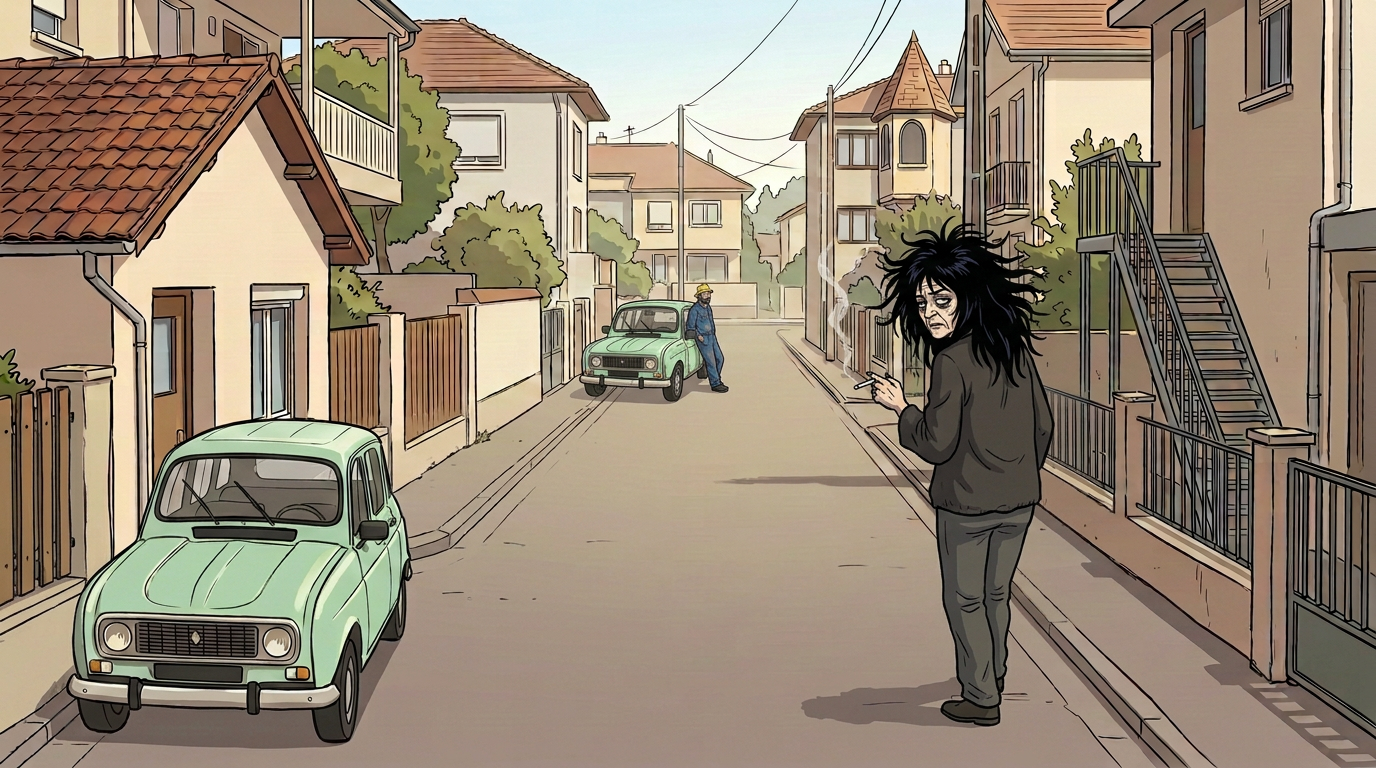
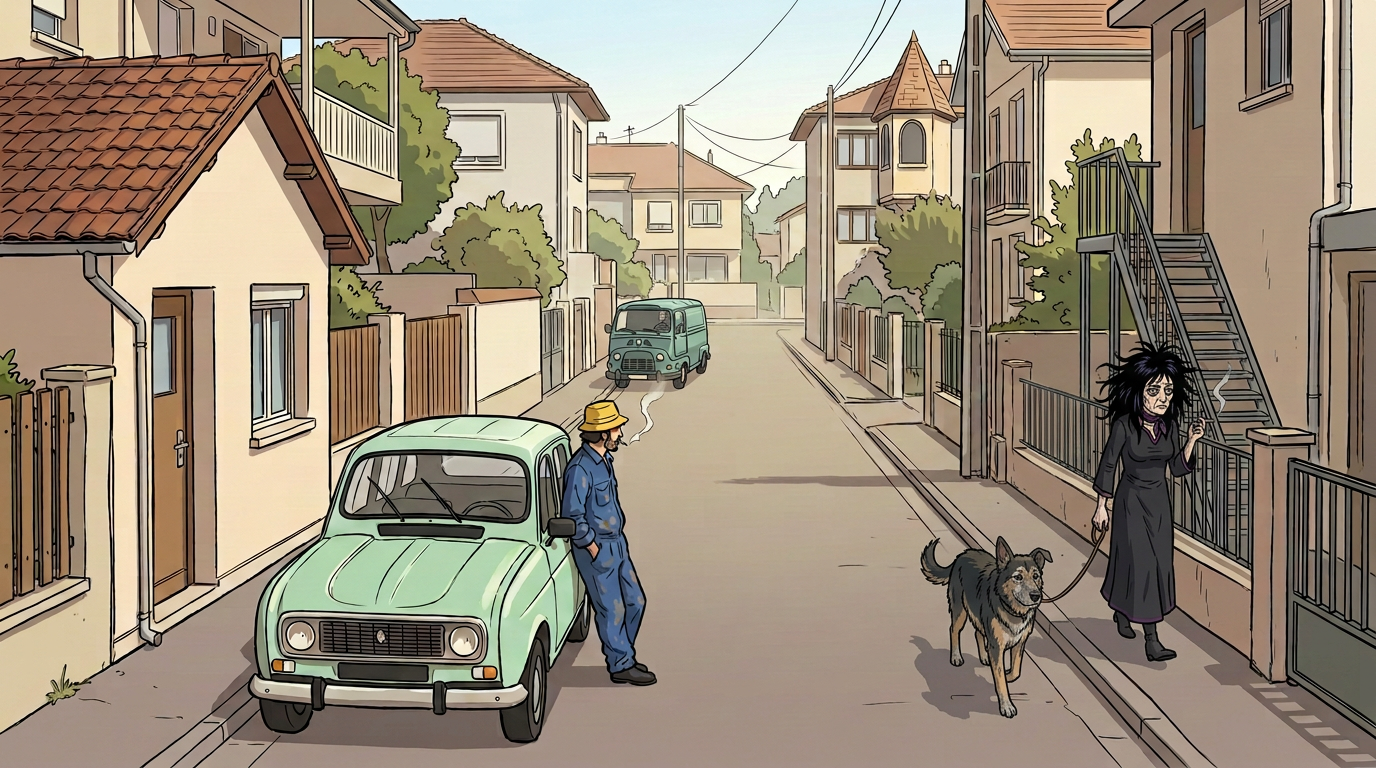
Correct P05 car continuity and leash Enji

Changed region(s): [[0.0, 0.375, 0.5312, 1.0], [0.5625, 0.2812, 0.9062, 0.9688]]

diff --git a/docs/storyboard-images.md b/docs/storyboard-images.md
@@ -1,6 +1,6 @@
 # Suivi des images du storyboard
 
-**Avancement : 29/29 images terminées et poussées.** Une image autonome 16:9 par plan ; cette étape produit les images-clés uniquement, sans annoter les mouvements de caméra ni monter l'animatique. Après les 29 images : annotations détaillées, mouvements de caméra, montage complet du storyboard, puis création et animation.
+**Images de base : 29/29 poussées. Audit de cohérence demandé : en cours ; P05 corrigé, autres plans à vérifier/réviser.** Les annotations détaillées et les mouvements de caméra finaux restent après cet audit, puis viendra le montage complet du storyboard.
 
 ## Verrou de continuité spatiale
 
@@ -14,7 +14,7 @@
 | P02 | [`assets/storyboards/p02-jeannot-enji-v2.png`](../assets/storyboards/p02-jeannot-enji-v2.png) | ✅ Poussée — Jeannot, sa 4L et Enji |
 | P03 | [`assets/storyboards/p03-street-geography.png`](../assets/storyboards/p03-street-geography.png) | ✅ Poussée — géographie de la rue |
 | P04 | [`assets/storyboards/p04-jeannot-first-verse.png`](../assets/storyboards/p04-jeannot-first-verse.png) | ✅ Poussée — geste de cigarette et fumée unique |
-| P05 | [`assets/storyboards/p05-witch-leaves.png`](../assets/storyboards/p05-witch-leaves.png) | ✅ Poussée — la sœur quitte la tourelle |
+| P05 | [`assets/storyboards/p05-witch-leaves.png`](../assets/storyboards/p05-witch-leaves.png) | 🔁 Corrigée — une seule 4L fixe ; la sorcière tient Enji en laisse |
 | P06 | [`assets/storyboards/p06-henri-runs.png`](../assets/storyboards/p06-henri-runs.png) | ✅ Poussée — course menée par le corps |
 | P07 | [`assets/storyboards/p07-witch-returns.png`](../assets/storyboards/p07-witch-returns.png) | ✅ Poussée — retour à la tourelle |
 | P08 | [`assets/storyboards/p08-henri-stair-fall.png`](../assets/storyboards/p08-henri-stair-fall.png) | ✅ Poussée — appui main/genou, sans rotation ni gore |
